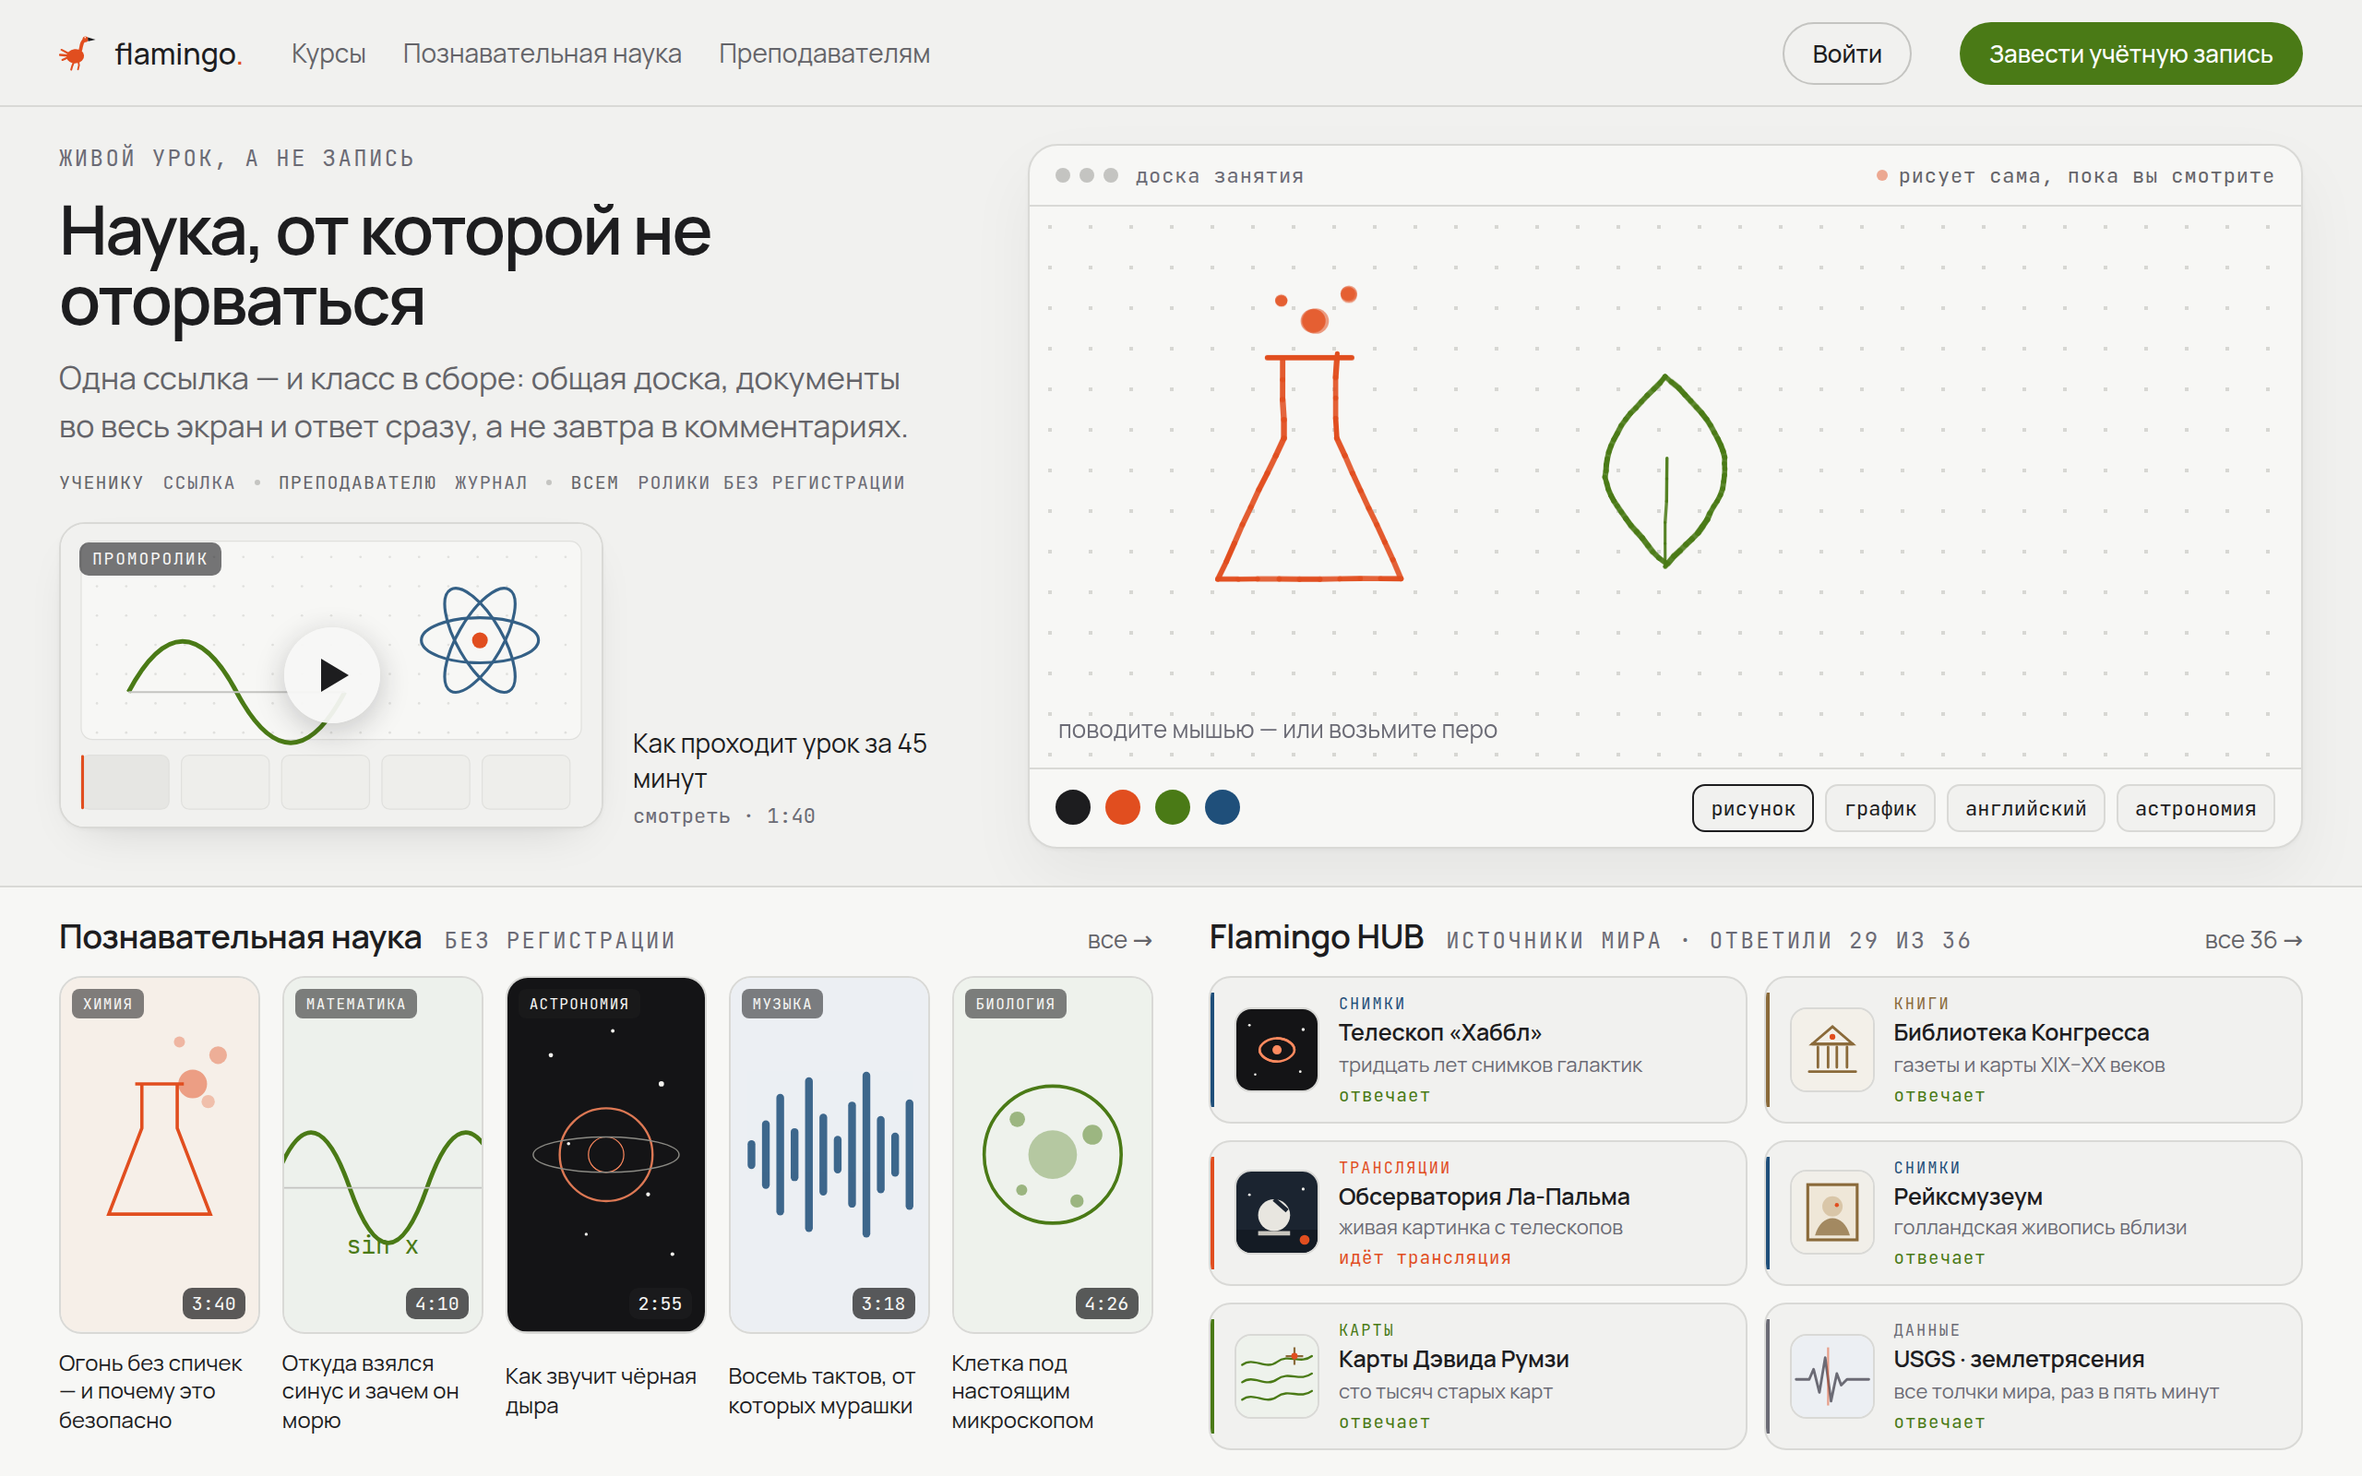
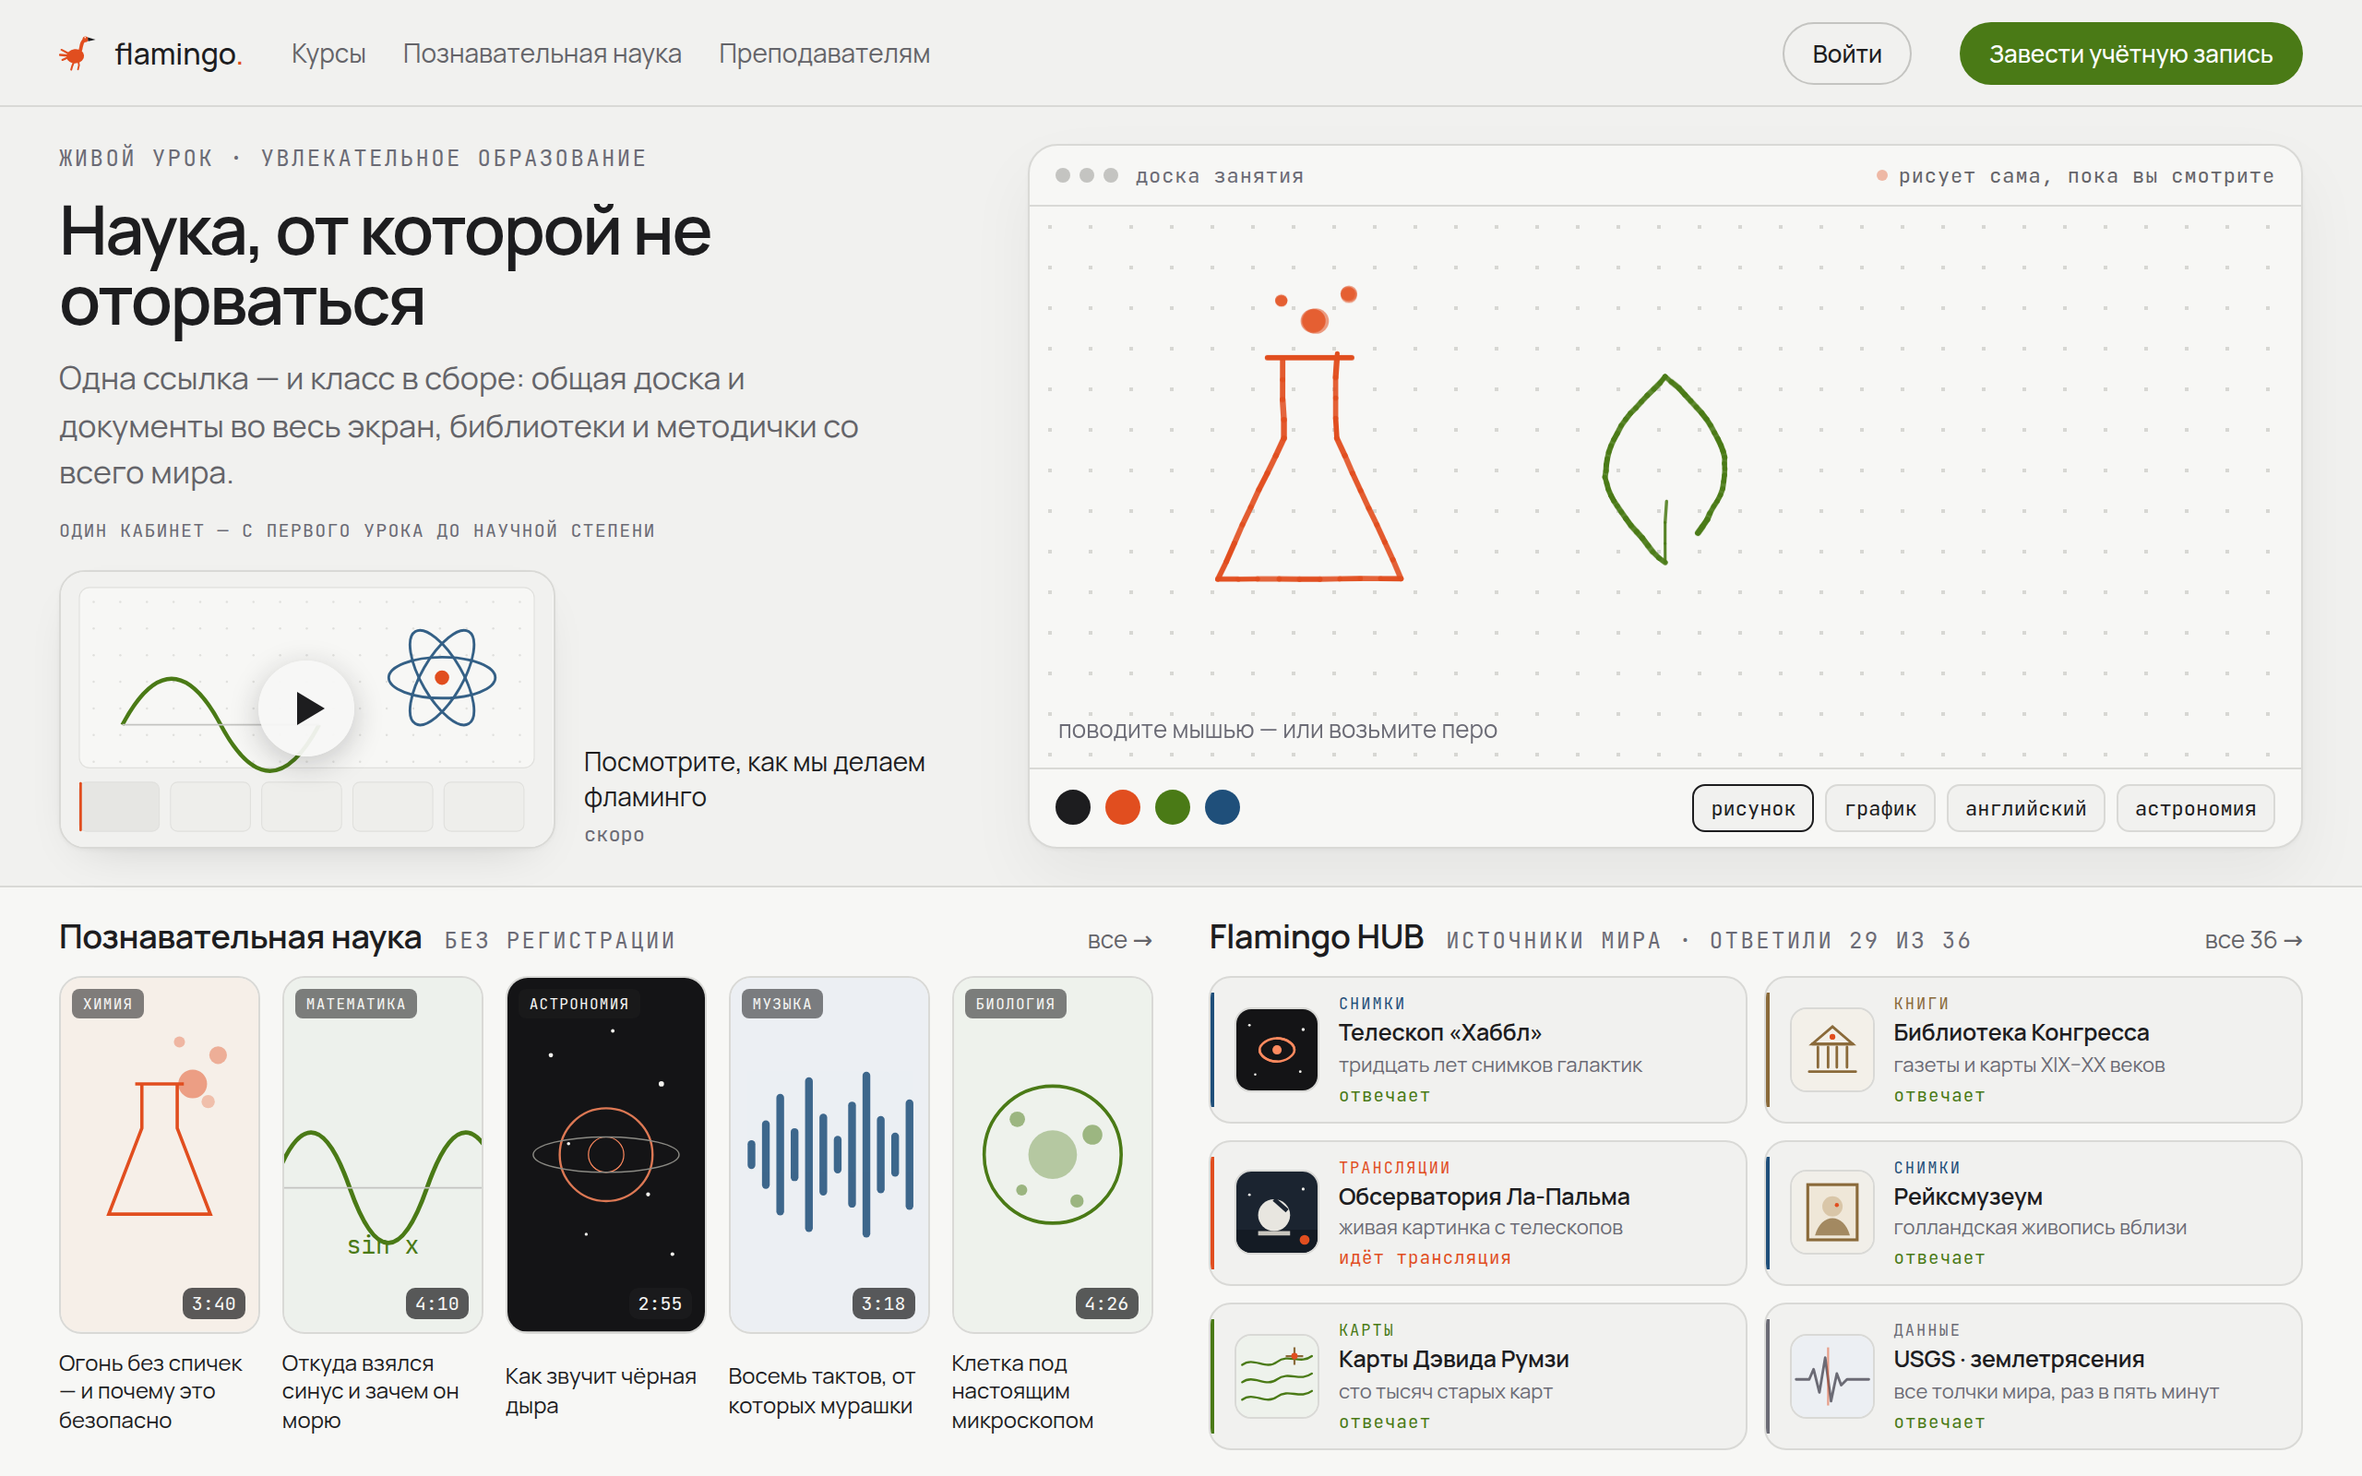
Титул: тексты владельца
Бровь, лид, строка под ним и подпись проморолика заменены по правке владельца
06.09. Метка «проморолик» на самом ролике снята: подпись под ним теперь
называет его словами, и метка стала повтором.

Разделитель в брови — средняя точка, как во всей строке служебных подписей
этого экрана. В подписи ролика поставлена запятая перед «как».

Одинаково в продукте и в макете `docs/дизайн/вход-варианты/титул.html`.

Changed region(s): [[0.0312, 0.25, 0.375, 0.5312], [0.25, 0.5, 0.4062, 0.5625], [0.125, 0.0938, 0.2812, 0.125]]

diff --git a/docs/дизайн/вход-варианты/титул.html b/docs/дизайн/вход-варианты/титул.html
@@ -177,22 +177,20 @@ h1{margin:0;font-size:clamp(30px,2.9vw,44px);line-height:1.03;font-weight:600;le
   <div class="полоса титул">
    <div class="левая">
     <div class="слова">
-      <span class="бровь">Живой урок, а не запись</span>
+      <span class="бровь">живой урок · увлекательное образование</span>
       <h1>Наука, от которой не оторваться</h1>
-      <p class="лид">Одна ссылка — и класс в сборе: общая доска, документы
-        во весь экран и ответ сразу, а не завтра в комментариях.</p>
-      <span class="кому"><b>ученику</b> ссылка <i></i>
-        <b>преподавателю</b> журнал <i></i><b>всем</b> ролики без регистрации</span>
+      <p class="лид">Одна ссылка — и класс в сборе: общая доска и документы во весь
+        экран, библиотеки и методички со всего мира.</p>
+      <span class="кому">один кабинет — с первого урока до научной степени</span>
     </div>
 
     <div class="проБлок">
       <a class="промо" href="#" aria-label="Смотреть проморолик: как проходит урок">
   <svg viewBox='0 0 480 270' preserveAspectRatio='xMidYMid slice'><rect width='480' height='270' fill='#f1f1ef'/><rect x='18' y='16' width='444' height='176' rx='10' fill='#f7f7f5' stroke='#e0e0dd'/><g fill='#e0e0dd'><circle cx='32' cy='30' r='1.1'/><circle cx='58' cy='30' r='1.1'/><circle cx='84' cy='30' r='1.1'/><circle cx='110' cy='30' r='1.1'/><circle cx='136' cy='30' r='1.1'/><circle cx='162' cy='30' r='1.1'/><circle cx='188' cy='30' r='1.1'/><circle cx='214' cy='30' r='1.1'/><circle cx='240' cy='30' r='1.1'/><circle cx='266' cy='30' r='1.1'/><circle cx='292' cy='30' r='1.1'/><circle cx='318' cy='30' r='1.1'/><circle cx='344' cy='30' r='1.1'/><circle cx='370' cy='30' r='1.1'/><circle cx='396' cy='30' r='1.1'/><circle cx='422' cy='30' r='1.1'/><circle cx='448' cy='30' r='1.1'/><circle cx='32' cy='56' r='1.1'/><circle cx='58' cy='56' r='1.1'/><circle cx='84' cy='56' r='1.1'/><circle cx='110' cy='56' r='1.1'/><circle cx='136' cy='56' r='1.1'/><circle cx='162' cy='56' r='1.1'/><circle cx='188' cy='56' r='1.1'/><circle cx='214' cy='56' r='1.1'/><circle cx='240' cy='56' r='1.1'/><circle cx='266' cy='56' r='1.1'/><circle cx='292' cy='56' r='1.1'/><circle cx='318' cy='56' r='1.1'/><circle cx='344' cy='56' r='1.1'/><circle cx='370' cy='56' r='1.1'/><circle cx='396' cy='56' r='1.1'/><circle cx='422' cy='56' r='1.1'/><circle cx='448' cy='56' r='1.1'/><circle cx='32' cy='82' r='1.1'/><circle cx='58' cy='82' r='1.1'/><circle cx='84' cy='82' r='1.1'/><circle cx='110' cy='82' r='1.1'/><circle cx='136' cy='82' r='1.1'/><circle cx='162' cy='82' r='1.1'/><circle cx='188' cy='82' r='1.1'/><circle cx='214' cy='82' r='1.1'/><circle cx='240' cy='82' r='1.1'/><circle cx='266' cy='82' r='1.1'/><circle cx='292' cy='82' r='1.1'/><circle cx='318' cy='82' r='1.1'/><circle cx='344' cy='82' r='1.1'/><circle cx='370' cy='82' r='1.1'/><circle cx='396' cy='82' r='1.1'/><circle cx='422' cy='82' r='1.1'/><circle cx='448' cy='82' r='1.1'/><circle cx='32' cy='108' r='1.1'/><circle cx='58' cy='108' r='1.1'/><circle cx='84' cy='108' r='1.1'/><circle cx='110' cy='108' r='1.1'/><circle cx='136' cy='108' r='1.1'/><circle cx='162' cy='108' r='1.1'/><circle cx='188' cy='108' r='1.1'/><circle cx='214' cy='108' r='1.1'/><circle cx='240' cy='108' r='1.1'/><circle cx='266' cy='108' r='1.1'/><circle cx='292' cy='108' r='1.1'/><circle cx='318' cy='108' r='1.1'/><circle cx='344' cy='108' r='1.1'/><circle cx='370' cy='108' r='1.1'/><circle cx='396' cy='108' r='1.1'/><circle cx='422' cy='108' r='1.1'/><circle cx='448' cy='108' r='1.1'/><circle cx='32' cy='134' r='1.1'/><circle cx='58' cy='134' r='1.1'/><circle cx='84' cy='134' r='1.1'/><circle cx='110' cy='134' r='1.1'/><circle cx='136' cy='134' r='1.1'/><circle cx='162' cy='134' r='1.1'/><circle cx='188' cy='134' r='1.1'/><circle cx='214' cy='134' r='1.1'/><circle cx='240' cy='134' r='1.1'/><circle cx='266' cy='134' r='1.1'/><circle cx='292' cy='134' r='1.1'/><circle cx='318' cy='134' r='1.1'/><circle cx='344' cy='134' r='1.1'/><circle cx='370' cy='134' r='1.1'/><circle cx='396' cy='134' r='1.1'/><circle cx='422' cy='134' r='1.1'/><circle cx='448' cy='134' r='1.1'/><circle cx='32' cy='160' r='1.1'/><circle cx='58' cy='160' r='1.1'/><circle cx='84' cy='160' r='1.1'/><circle cx='110' cy='160' r='1.1'/><circle cx='136' cy='160' r='1.1'/><circle cx='162' cy='160' r='1.1'/><circle cx='188' cy='160' r='1.1'/><circle cx='214' cy='160' r='1.1'/><circle cx='240' cy='160' r='1.1'/><circle cx='266' cy='160' r='1.1'/><circle cx='292' cy='160' r='1.1'/><circle cx='318' cy='160' r='1.1'/><circle cx='344' cy='160' r='1.1'/><circle cx='370' cy='160' r='1.1'/><circle cx='396' cy='160' r='1.1'/><circle cx='422' cy='160' r='1.1'/><circle cx='448' cy='160' r='1.1'/><circle cx='32' cy='186' r='1.1'/><circle cx='58' cy='186' r='1.1'/><circle cx='84' cy='186' r='1.1'/><circle cx='110' cy='186' r='1.1'/><circle cx='136' cy='186' r='1.1'/><circle cx='162' cy='186' r='1.1'/><circle cx='188' cy='186' r='1.1'/><circle cx='214' cy='186' r='1.1'/><circle cx='240' cy='186' r='1.1'/><circle cx='266' cy='186' r='1.1'/><circle cx='292' cy='186' r='1.1'/><circle cx='318' cy='186' r='1.1'/><circle cx='344' cy='186' r='1.1'/><circle cx='370' cy='186' r='1.1'/><circle cx='396' cy='186' r='1.1'/><circle cx='422' cy='186' r='1.1'/><circle cx='448' cy='186' r='1.1'/></g><path d='M60 150 Q108 60 156 150 T252 150' fill='none' stroke='#4a7a16' stroke-width='4'/><path d='M60 150h192' stroke='#c4c4c1' stroke-width='1.5'/><g fill='none' stroke='#1f4f7a' stroke-width='2.6' opacity='.9'><ellipse cx='372' cy='104' rx='52' ry='20'/><ellipse cx='372' cy='104' rx='52' ry='20' transform='rotate(60 372 104)'/><ellipse cx='372' cy='104' rx='52' ry='20' transform='rotate(120 372 104)'/></g><circle cx='372' cy='104' r='7' fill='#e14e1f'/><rect x='18' y='206' width='78' height='48' rx='7' fill='#e6e6e3' stroke='#e0e0dd'/><rect x='107' y='206' width='78' height='48' rx='7' fill='#eeeeeb' stroke='#e0e0dd'/><rect x='196' y='206' width='78' height='48' rx='7' fill='#eeeeeb' stroke='#e0e0dd'/><rect x='285' y='206' width='78' height='48' rx='7' fill='#eeeeeb' stroke='#e0e0dd'/><rect x='374' y='206' width='78' height='48' rx='7' fill='#eeeeeb' stroke='#e0e0dd'/><rect x='18' y='206' width='2.5' height='48' rx='1.2' fill='#e14e1f'/></svg>
-        <span class="проМетка">проморолик</span>
         <span class="пуск"><i></i></span>
       </a>
       <div class="проТекст">
-        <span class="проПодпись">Как проходит урок за 45 минут<s>смотреть · 1:40</s></span>
+        <span class="проПодпись">Посмотрите, как мы делаем фламинго<s>скоро</s></span>
       </div>
     </div>
    </div>

diff --git a/frontend/src/screens/Титул.tsx b/frontend/src/screens/Титул.tsx
@@ -228,29 +228,26 @@ export function Титул({ onSign, onHub }: { onSign: () => void; onHub: () =>
       <div className={s.разворот}>
         <div className={s.левая} ref={левая}>
           <div className={s.слова} ref={слова}>
-            <span className={s.бровь}>Живой урок, а не запись</span>
+            <span className={s.бровь}>живой урок · увлекательное образование</span>
             <h1 className={s.заголовок}>Наука, от которой не оторваться</h1>
             <p className={s.лид}>
-              Одна ссылка — и класс в сборе: общая доска, документы во весь экран
-              и ответ сразу, а не завтра в комментариях.
+              Одна ссылка — и класс в сборе: общая доска и документы во весь экран,
+              библиотеки и методички со всего мира.
             </p>
-            <span className={s.кому}>
-              <b>ученику</b> ссылка · <b>преподавателю</b> журнал · <b>всем</b> источники мира
-            </span>
+            <span className={s.кому}>один кабинет — с первого урока до научной степени</span>
           </div>
 
           <div className={`${s.проБлок} ${стопкой ? s.стопкой : s.сбоку}`} ref={блок}>
             {/* Ролика ещё нет — кнопка объявлена немой словами (ПРАВИЛА 14.1). */}
             <button type="button" className={s.промо} ref={промо} data-still="проморолик снимается">
               {постер()}
-              <span className={s.проМетка}>проморолик</span>
               <span className={s.пуск}>
                 <svg viewBox="0 0 16 16" aria-hidden><path d="M4 2l10 6-10 6z" fill="var(--color-text)" /></svg>
               </span>
             </button>
             <span className={s.проТекст}>
               <span className={s.проПодпись} ref={подпись}>
-                Как проходит урок за 45 минут<s>скоро</s>
+                Посмотрите, как мы делаем фламинго<s>скоро</s>
               </span>
             </span>
           </div>

diff --git a/frontend/src/screens/Титул.module.css b/frontend/src/screens/Титул.module.css
@@ -145,19 +145,6 @@
   box-shadow: var(--shadow-md);
 }
 .пуск svg { position: static; width: var(--space-4); height: var(--space-4); }
-.проМетка {
-  position: absolute;
-  left: var(--space-2);
-  top: var(--space-2);
-  font-family: var(--font-mono);
-  font-size: var(--text-overline);
-  letter-spacing: 0.1em;
-  text-transform: uppercase;
-  color: var(--color-text-inverse);
-  background: var(--color-overlay);
-  border-radius: var(--radius-xs);
-  padding: 0 var(--space-1);
-}
 .проПодпись { display: grid; gap: 2px; font-size: var(--text-small); line-height: 1.35; }
 .проПодпись s { font-family: var(--font-mono); font-size: var(--text-overline); color: var(--color-text-hint); text-decoration: none; }
 .стопкой .проПодпись { display: flex; align-items: baseline; gap: var(--space-3); }
